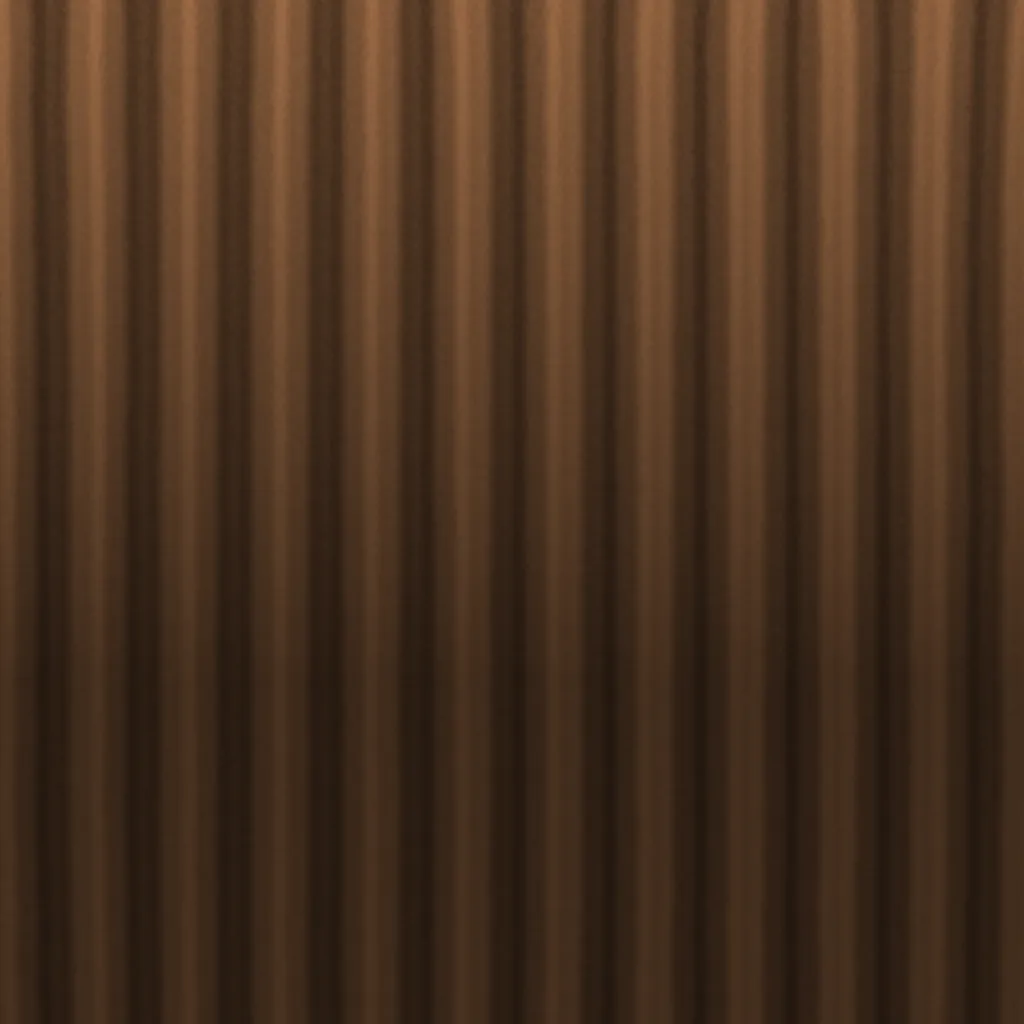
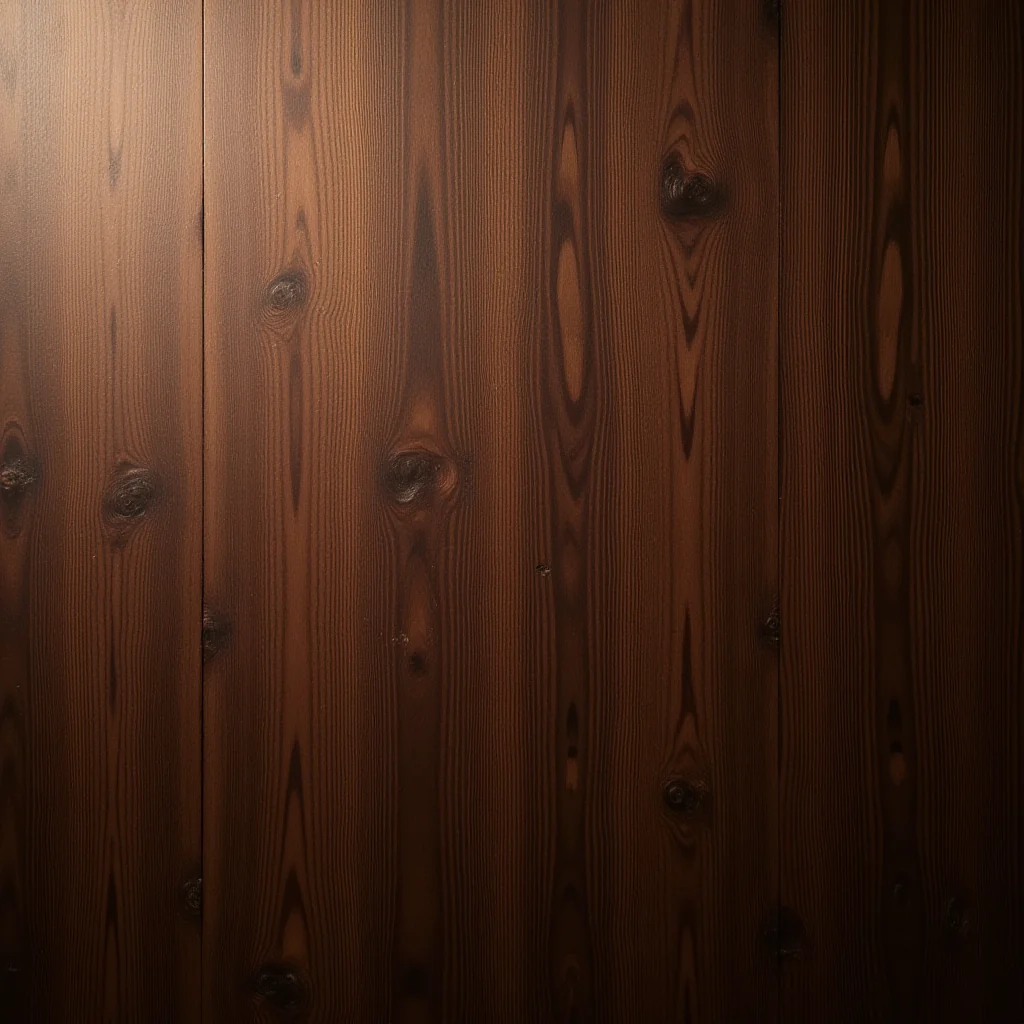
Hintergründe: Himmel, Holz und Pergament mit Flux gemalt
Ersetzt die prozeduralen Notlösungen durch Texturen aus ComfyUI/Flux:
Sonnenuntergang für die Erdkugel, Walnussholz für den Spieltisch und
gealtertes Pergament für die Seekarte. Die gezeichneten Fassungen
bleiben als Fallback, falls die Bilder fehlen.

diff --git a/CHANGELOG.md b/CHANGELOG.md
@@ -5,7 +5,7 @@ Format nach [Keep a Changelog](https://keepachangelog.com/de/1.1.0/).
 ## [Unveröffentlicht]
 
 ### Hinzugefügt
-- **Hintergründe:** Der Hintergrund hinter Anmeldung, Lobby und Spielfeld besteht jetzt aus denselben Gelände-Tiles wie das Brett und lässt sich pro Gerät wählen (Knopf mit Paletten-Symbol unten links bzw. im Spiel „Hintergrund …“ im Hamburger-Menü; die Wahl bleibt lokal gespeichert): **Erdkrümmung** – eine große Tile-Fläche wölbt sich wie eine Erdkugel bis zum Dunsthorizont, im Vordergrund wenige große Felder; **Spieltisch** – die Tiles als Plättchen mit Schatten auf dunklem Holz; **Seekarte** – die Tiles als gemalte Karte auf gealtertem Pergament mit Küstenlinien, Handelsrouten und Windrose; **Nebelmeer** – Inseln und Siedlungslichter im nächtlichen Nebel. Gezeichnet wird im Browser (`public/background.js`, Canvas ohne Abhängigkeiten), die Texturen für Himmel, Holz und Pergament liegen in `public/img/bg/`.
+- **Hintergründe:** Der Hintergrund hinter Anmeldung, Lobby und Spielfeld besteht jetzt aus denselben Gelände-Tiles wie das Brett und lässt sich pro Gerät wählen (Knopf mit Paletten-Symbol unten links bzw. im Spiel „Hintergrund …“ im Hamburger-Menü; die Wahl bleibt lokal gespeichert): **Erdkrümmung** – eine große Tile-Fläche wölbt sich wie eine Erdkugel bis zum Dunsthorizont, im Vordergrund wenige große Felder; **Spieltisch** – die Tiles als Plättchen mit Schatten auf dunklem Holz; **Seekarte** – die Tiles als gemalte Karte auf gealtertem Pergament mit Küstenlinien, Handelsrouten und Windrose; **Nebelmeer** – Inseln und Siedlungslichter im nächtlichen Nebel. Gezeichnet wird im Browser (`public/background.js`, Canvas ohne Abhängigkeiten), die Texturen für Himmel, Holz und Pergament liegen in `public/img/bg/` (mit Flux erzeugt).
 - **Betriebslog:** Der Server protokolliert auf stdout, was man später zur Diagnose braucht: Start/Stopp, Räume (angelegt, gelöscht mit Grund), Partien (Start, Ende, Fortsetzung), Spieler (Beitritt, Verlassen, Entfernen, abwesend → Auto-Modus, wieder da), Kontrollübergabe, Zuschauer und Fehler – eine Zeile je Ereignis. `LOG_LEVEL` (Standard `info`); bei `debug` zusätzlich jede Verbindung mit gekürztem Token und IP-Adresse.
 - **Abschlussbericht je Partie:** Endet eine Partie (Sieg, vom Spielleiter beendet oder abgebrochen, weil niemand mehr da ist), hängt der Server eine JSON-Zeile an `DATA_DIR/partien.jsonl` an: Spieler, Ergebnis, Dauer, Runden, Einstellungen, Statistik und Punkteverlauf.
 

diff --git a/README.md b/README.md
@@ -129,7 +129,7 @@ Browser) und ändert nichts am Spiel.
 - **Seekarte** – die Tiles als gemalte Karte auf gealtertem Pergament, mit Küstenlinien, Handelsrouten und Windrose.
 - **Nebelmeer** – Inseln und Siedlungslichter im nächtlichen Nebel.
 
-Gezeichnet wird im Browser (`public/background.js`, Canvas), die Texturen für Himmel, Holz und Pergament liegen in `public/img/bg/`.
+Gezeichnet wird im Browser (`public/background.js`, Canvas), die Texturen für Himmel, Holz und Pergament liegen in `public/img/bg/` (mit Flux erzeugt).
 
 ## Spiele, Lobby, Einstellungen
 
